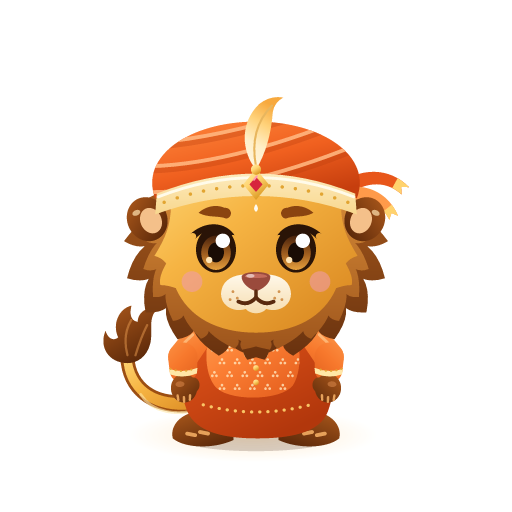
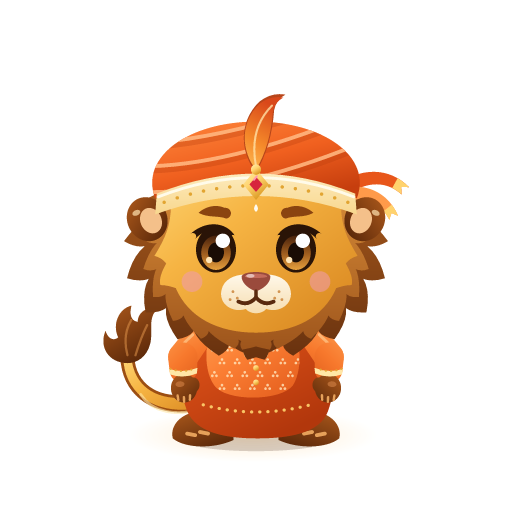
Fix Kesar losing his colours on stacked screens
Every Kesar part defined its gradients with the same ids, and the web
resolves an id to the first match in the page. With the home screen
still mounted underneath (and hidden), Kesar on any screen above it lost
his coat, mane and pagdi colours and showed up as a pale shape. Each
part now gets its own ids.

Also: the kalgi plume is saffron instead of cream, the cheer sparkles a
deeper gold, the Android themed icon is Kesar's silhouette rather than
Expo's placeholder, and the old sprite sheet is gone.

Changed region(s): [[0.4688, 0.1875, 0.5625, 0.3438]]

diff --git a/src/mascot/rig.ts b/src/mascot/rig.ts
@@ -38,11 +38,11 @@ const GRADIENTS: Record<string, string> = {
   'k-paw': `<linearGradient id="k-paw" gradientUnits="userSpaceOnUse" x1="75" y1="195" x2="91" y2="214"><stop stop-color="#AE5A1C"/><stop offset="1" stop-color="#5E2A0A"/></linearGradient>`,
   'k-turban': `<linearGradient id="k-turban" x1="0" y1="0" x2=".7" y2="1"><stop stop-color="#FF8A3E"/><stop offset=".55" stop-color="#F0601F"/><stop offset="1" stop-color="#C63E0E"/></linearGradient>`,
   'k-band': `<linearGradient id="k-band" x1="0" y1="0" x2="0" y2="1"><stop stop-color="#FFF4D2"/><stop offset="1" stop-color="#F8D78E"/></linearGradient>`,
-  'k-plume': `<linearGradient id="k-plume" x1="0" y1="1" x2=".35" y2="0"><stop stop-color="#FFF8E8"/><stop offset=".42" stop-color="#FFEFC8"/><stop offset=".72" stop-color="#FFD27A"/><stop offset="1" stop-color="#F7A93E"/></linearGradient>`,
+  'k-plume': `<linearGradient id="k-plume" x1="0" y1="1" x2=".35" y2="0"><stop stop-color="#FFC15A"/><stop offset=".45" stop-color="#F58A2A"/><stop offset="1" stop-color="#D9481A"/></linearGradient>`,
   'k-gold': `<linearGradient id="k-gold" x1="0" y1="0" x2=".6" y2="1"><stop stop-color="#FFF1B0"/><stop offset=".5" stop-color="#FFD36E"/><stop offset="1" stop-color="#D9971F"/></linearGradient>`,
   'k-iris': `<linearGradient id="k-iris" x1="0" y1="0" x2="0" y2="1"><stop stop-color="#4A230C"/><stop offset=".55" stop-color="#A3601F"/><stop offset="1" stop-color="#E5A03E"/></linearGradient>`,
   'k-aura': `<radialGradient id="k-aura"><stop stop-color="#FFB347" stop-opacity=".26"/><stop offset="1" stop-color="#FFB347" stop-opacity="0"/></radialGradient>`,
-  'k-glow': `<radialGradient id="k-glow"><stop stop-color="#FFF3B0" stop-opacity=".85"/><stop offset="1" stop-color="#FFF3B0" stop-opacity="0"/></radialGradient>`,
+  'k-glow': `<radialGradient id="k-glow"><stop stop-color="#FFD36B" stop-opacity=".55"/><stop offset="1" stop-color="#FFD36B" stop-opacity="0"/></radialGradient>`,
   'k-page': `<linearGradient id="k-page" gradientUnits="userSpaceOnUse" x1="131" y1="0" x2="161" y2="0"><stop stop-color="#E6CB98"/><stop offset=".45" stop-color="#FAEDCF"/><stop offset="1" stop-color="#FFFBF0"/></linearGradient>`,
 };
 
@@ -376,10 +376,14 @@ const turban = `
   <path d="M128.7 72.4l1.8-2.2" stroke="#FF9AAE" stroke-width="1.2" stroke-linecap="round"/>
   <path d="M130 87.5C128.4 89.6 128.4 91.4 130 92.4C131.6 91.4 131.6 89.6 130 87.5Z" fill="#FFFBEF"/>`;
 
-// The kalgi: a cream plume pinned to the sarpech, curling over the top.
+// The kalgi: a saffron plume pinned to the sarpech, curling over the top.
+// Warm and edged in a deeper orange so it reads as part of the pagdi, not a
+// pale shape that melts into a cream background.
+const PLUME = 'M130 66C121 55 119.5 37 132 25Q139 19.5 147 21Q141.5 24 140.5 30C139.5 44 136 56 130 66Z';
 const crest = `
-  <path d="M130 66C121 55 119.5 37 132 25Q139 19.5 147 21Q141.5 24 140.5 30C139.5 44 136 56 130 66Z" fill="url(#k-plume)"/>
-  ${stroke('M130 64C127.5 51 129 37 140 26', '#E8B65E', 1.3)}
+  <path d="${PLUME}" fill="#B8461A" transform="translate(130 44) scale(1.08) translate(-130 -44)"/>
+  <path d="${PLUME}" fill="url(#k-plume)"/>
+  ${stroke('M130 64C127.5 51 129 37 140 26', '#FFE1A6', 1.3, 'opacity=".8"')}
   <circle cx="130" cy="66" r="3.2" fill="url(#k-gold)"/>`;
 
 // A cloth tail along a cubic, tapering from w0 to w1, with a swallowtail
@@ -577,10 +581,10 @@ export const RIG: RigNode = {
       ],
     },
     ...fx('sparkles', [
-      ['fx1', 49, 104, star('#FFE5A0')],
-      ['fx2', 218, 126, star('#FFC98C')],
-      ['fx3', 76, 53, star('#FFC98C')],
-      ['fx4', 192, 48, star('#FFE5A0')],
+      ['fx1', 49, 104, star('#F5B127')],
+      ['fx2', 218, 126, star('#F08A2A')],
+      ['fx3', 76, 53, star('#F08A2A')],
+      ['fx4', 192, 48, star('#F5B127')],
     ]),
     ...fx('hearts', [
       ['fx1', 49, 104, heart],

diff --git a/src/mascot/Kesar.tsx b/src/mascot/Kesar.tsx
@@ -40,8 +40,20 @@ const VB = `${BOX.x} ${BOX.y} ${BOX.w} ${BOX.h}`;
 const origin = ([x, y]: [number, number]) =>
   `${((x - BOX.x) / BOX.w) * 100}% ${((y - BOX.y) / BOX.h) * 100}%`;
 
+// Gradient and clip ids are global to the page on the web, and a screen
+// left mounted underneath (hidden) would otherwise own "k-coat": every
+// Kesar on top would then lose his colours. So each part gets its own ids.
+let partSeq = 0;
+
 const Part = memo(function Part({ svg, size }: { svg: string; size: number }) {
-  const xml = useMemo(() => `<svg xmlns="http://www.w3.org/2000/svg" viewBox="${VB}">${withDefs(svg)}</svg>`, [svg]);
+  const uid = useMemo(() => `k${(++partSeq).toString(36)}-`, []);
+  const xml = useMemo(
+    () =>
+      `<svg xmlns="http://www.w3.org/2000/svg" viewBox="${VB}">${withDefs(svg)}</svg>`
+        .replace(/id="k-/g, `id="${uid}`)
+        .replace(/url\(#k-/g, `url(#${uid}`),
+    [svg, uid],
+  );
   return <SvgXml xml={xml} width={size} height={size} />;
 });
 
